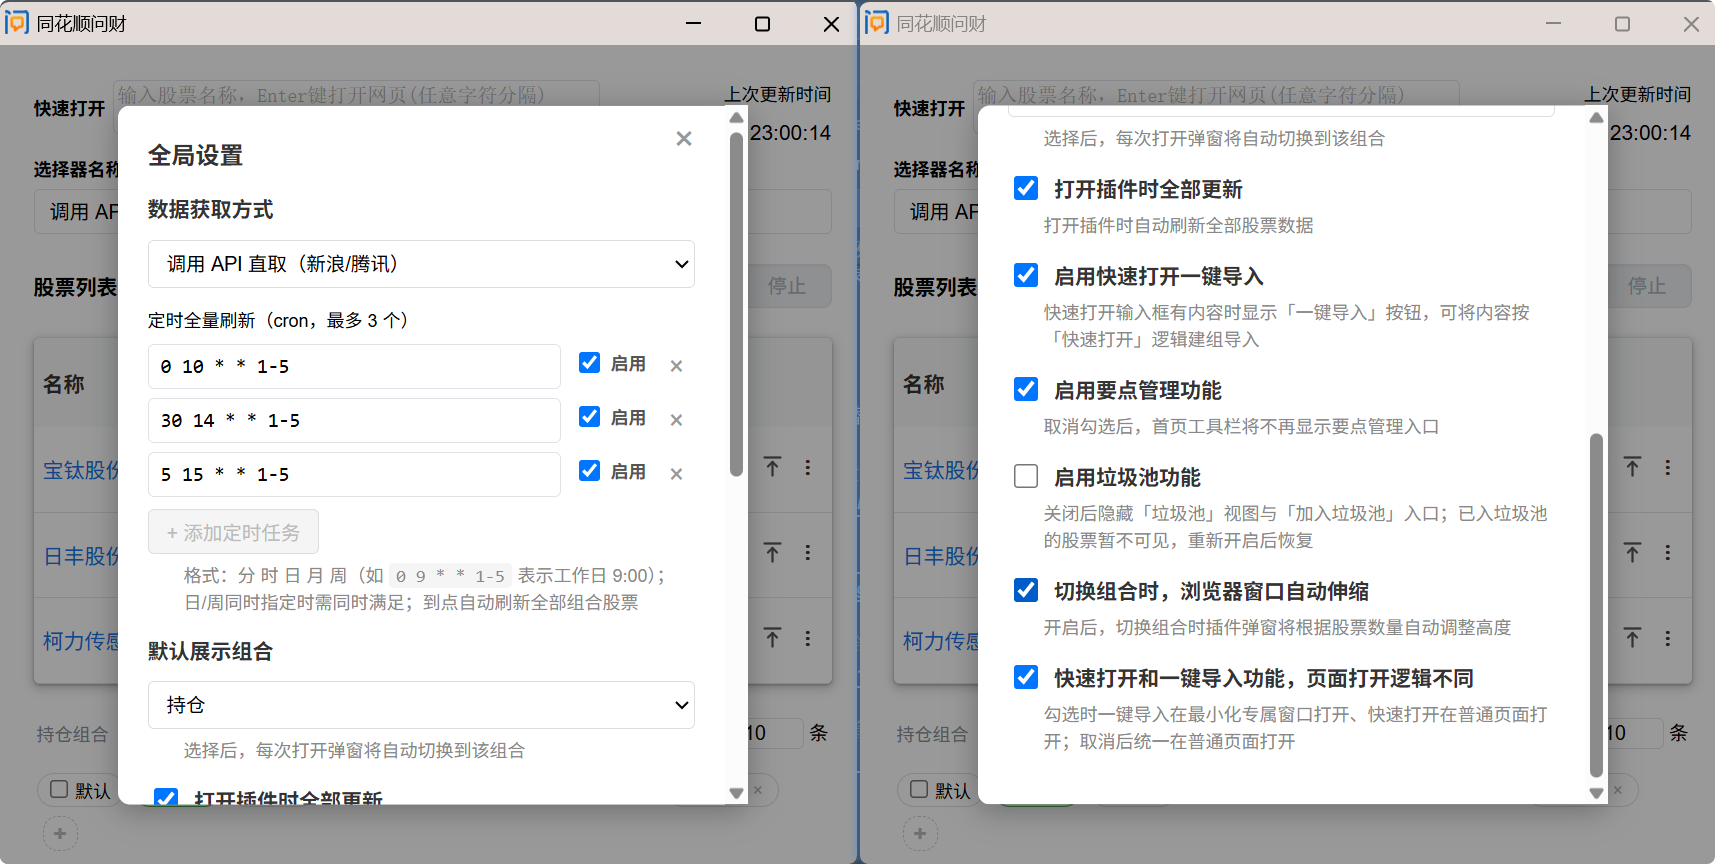
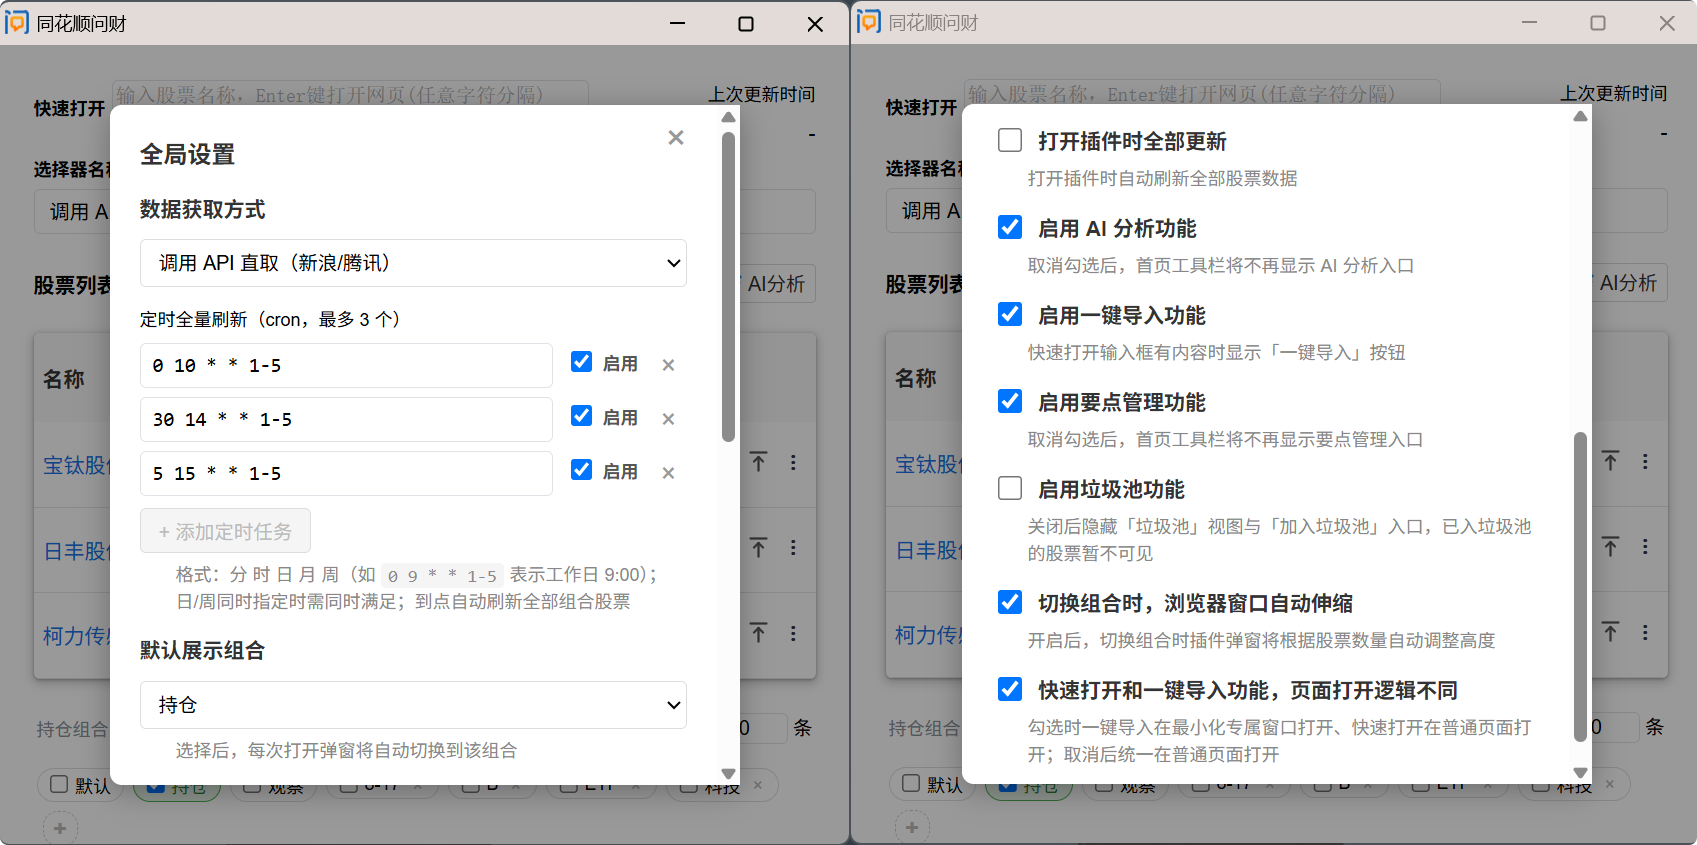
docs: add thswc AI chat screenshots to README
- root README: add AI chat assistant feature item + ai1/ai2/settings screenshots
- thswc README: replace stale thswc-ai-chat.png refs with ai1/ai2

diff --git a/README.md b/README.md
@@ -63,6 +63,7 @@ web_auto_refresh/
 8. 股票名称一键跳转对应站点（问财按名称搜索、雪球按代码进个股页）与复制
 9. 快速打开一键导入：快速打开框输入内容后出现「一键导入」，可下拉选择已有组合或输入新组合名，将内容按快速打开逻辑建组导入（按名称去重、跳过重复，页面逐个打开）
 10. 事件管理：要点与事件记录、状态跟踪（待预测/准确/误判）、归档合并与准确率统计
+11. AI 对话分析：工具栏「✨ AI分析」打开独立对话窗口，内置 AI 助手（OpenAI 兼容 API，支持 DeepSeek/OpenAI/百炼/本地 Ollama 等），可保存多份接口配置切换；AI 可读取持仓、切换组合、读写授权工作目录、长期记忆，支持图片输入
 
 **使用方式**：
 
@@ -93,3 +94,12 @@ thswc 主页 - 股票列表（分页 + 组合切换）
 
 达到阈值后的浏览器系统通知
 ![达到阈值后的浏览器系统通知](images/README/thswc-notify.png)
+
+AI 对话基本使用（1/2）
+![AI 对话基本使用（1/2）](images/README/thswc-ai1.png)
+
+AI 对话基本使用（2/2）
+![AI 对话基本使用（2/2）](images/README/thswc-ai2.png)
+
+AI 设置
+![AI 设置 - 多份接口配置](images/README/thswc-ai-settings.png)

diff --git a/thswc/README.md b/thswc/README.md
@@ -6,7 +6,9 @@
 
 内置 AI 助手（无本地后端，不依赖 Open WebUI / AnythingLLM），通过插件主页工具栏「✨ AI分析」按钮打开独立对话窗口。所有大模型调用直接走 OpenAI 兼容 API（默认 DeepSeek，也支持 OpenAI / 阿里云百炼 Qwen / 本地 Ollama 等任何兼容端点），流式输出。
 
-![AI 对话主界面](../images/README/thswc-ai-chat.png)
+![AI 对话基本使用（1/2）](../images/README/thswc-ai1.png)
+
+![AI 对话基本使用（2/2）](../images/README/thswc-ai2.png)
 
 ### 接口配置（多份手动切换）
 
@@ -160,8 +162,11 @@
 
 ## 界面预览
 
-AI 对话主界面（会话切换 + 工作目录授权）
-![AI 对话主界面](../images/README/thswc-ai-chat.png)
+AI 对话（基本使用 1/2）
+![AI 对话基本使用（1/2）](../images/README/thswc-ai1.png)
+
+AI 对话（基本使用 2/2）
+![AI 对话基本使用（2/2）](../images/README/thswc-ai2.png)
 
 AI 设置（多份接口配置）
 ![AI 设置](../images/README/thswc-ai-settings.png)
